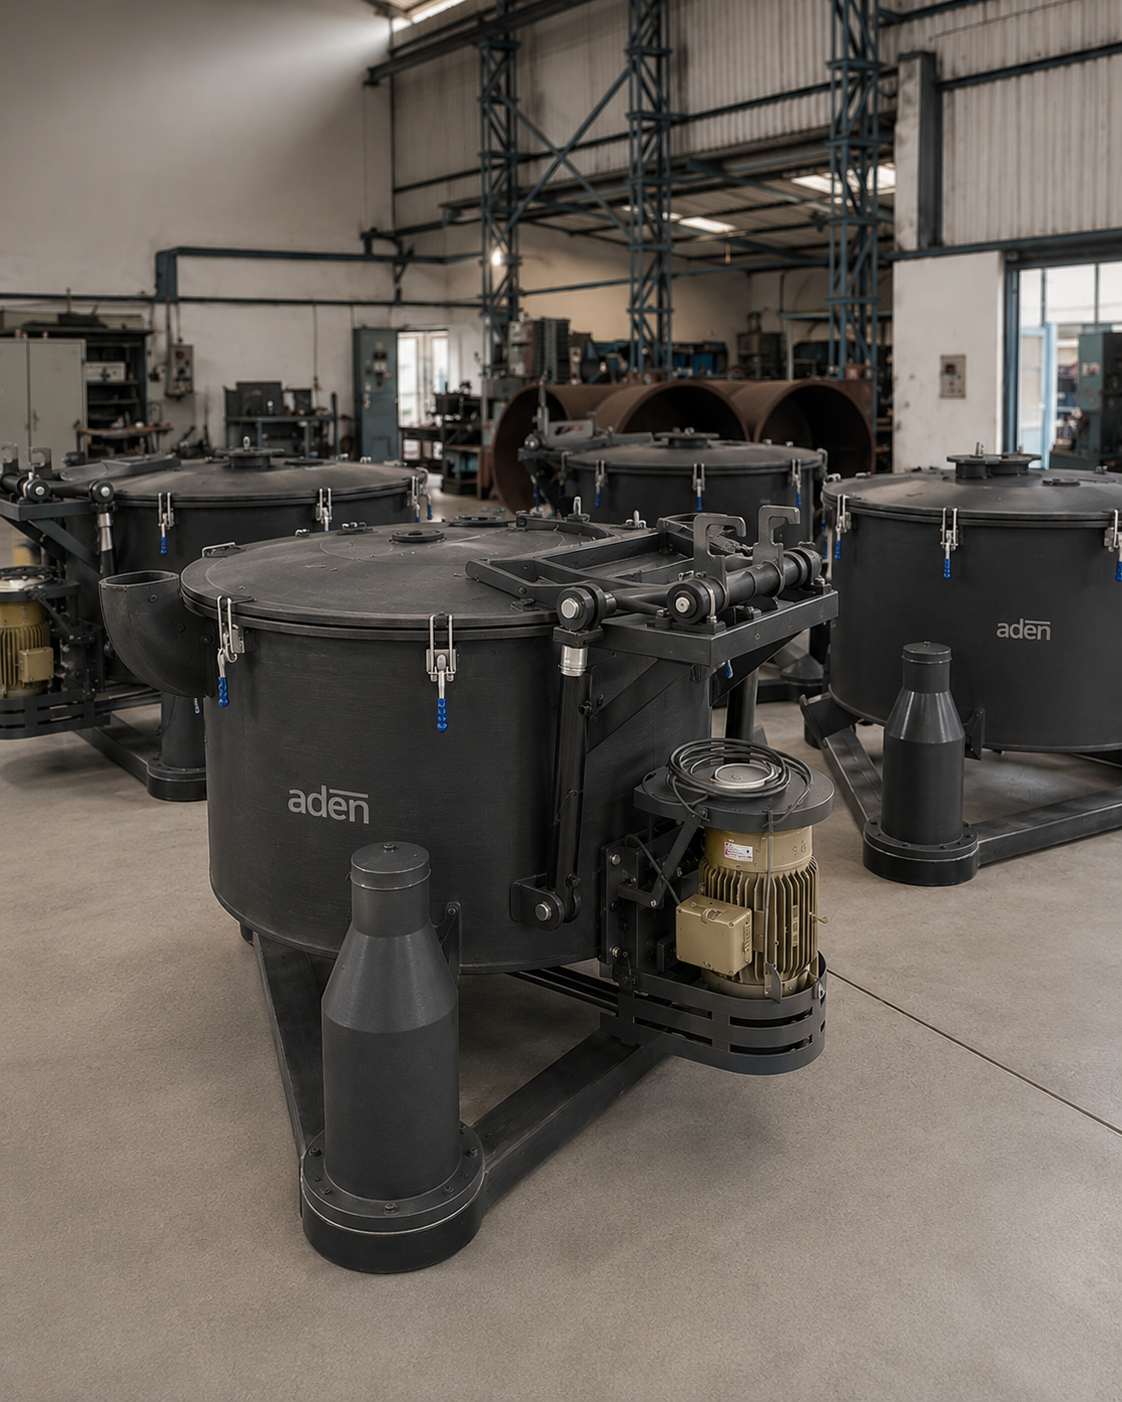
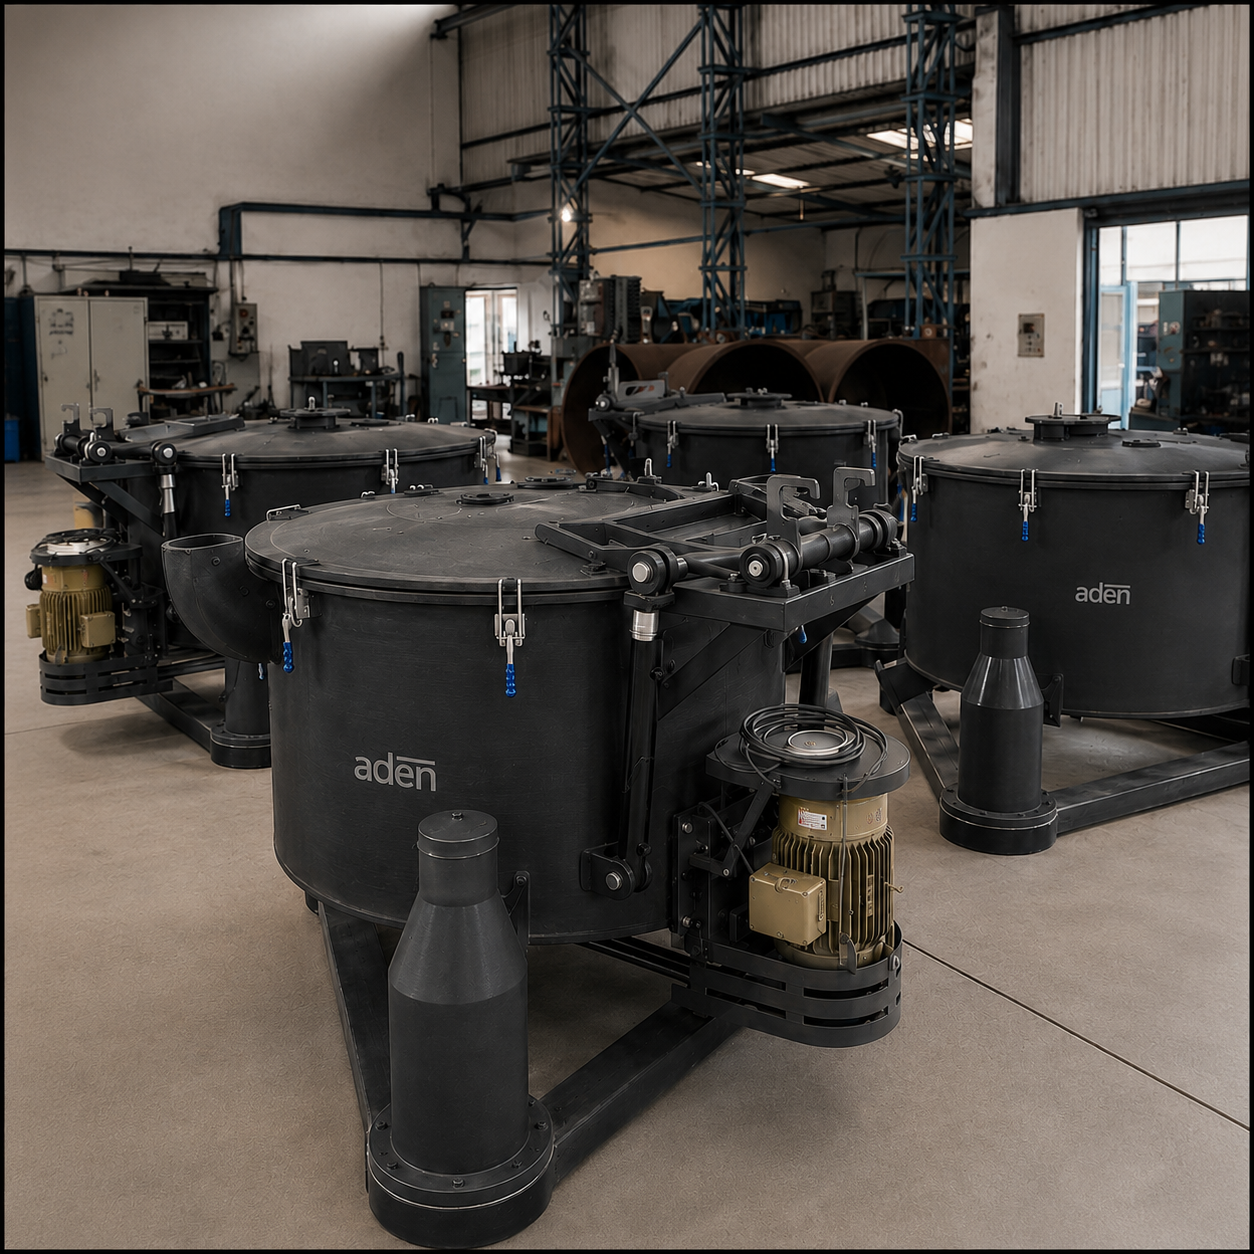
style: update product image styling to square aspect ratio and contain fit

diff --git a/app/globals.css b/app/globals.css
@@ -584,9 +584,9 @@ section {
 }
 
 .product-image {
-  aspect-ratio: 4/3;
+  aspect-ratio: 1/1;
   width: 100%;
-  object-fit: cover;
+  object-fit: contain;
   background: var(--white);
   border: 1px solid var(--silver);
   margin-bottom: 18px;